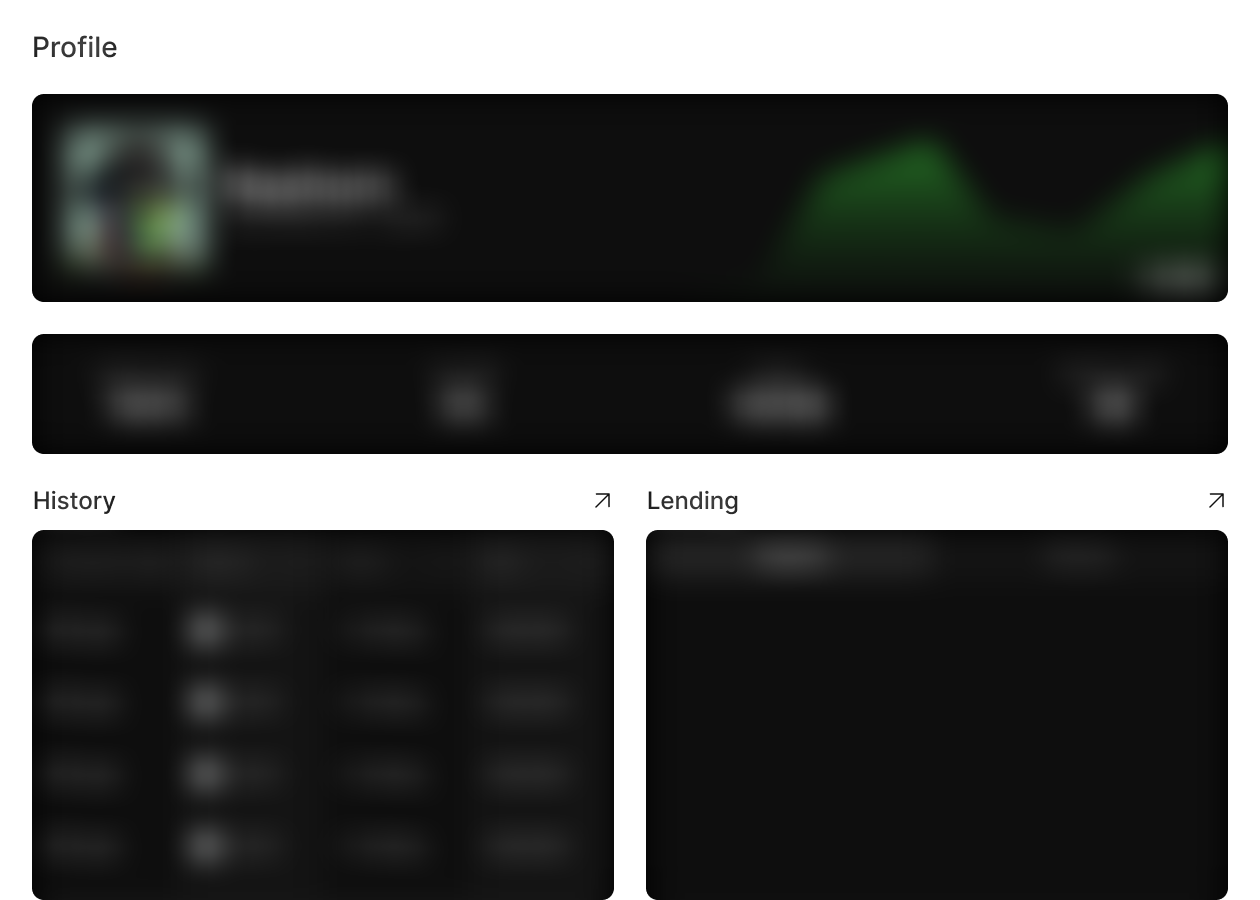
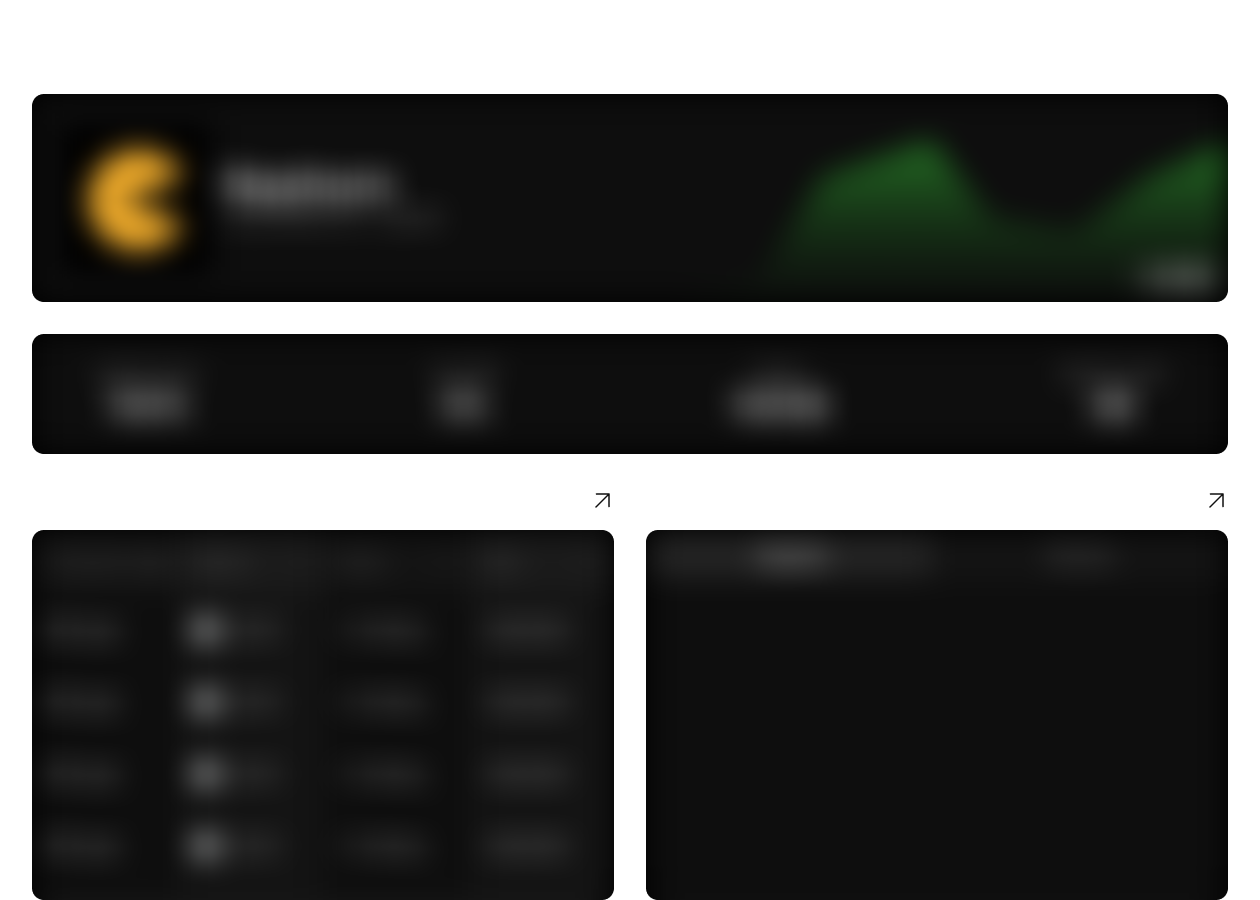
Add Dashboard loading component and page, remove Profile page, update Sidebar component

diff --git a/src/components/Sidebar.tsx b/src/components/Sidebar.tsx
@@ -49,7 +49,7 @@ const Sidebar: React.FC = () => {
               : "text-gray-400 transition-colors duration-300 hover:text-white"
           } group`}
         >
-          {label === "Dashboard" && (
+          {label === "Markets" && (
             <svg
               className={isActive ? "text-[#FFF200]" : isDisabled ? "text-gray-600" : "text-gray-400"}
               xmlns="http://www.w3.org/2000/svg"
@@ -190,8 +190,9 @@ const Sidebar: React.FC = () => {
               <path d="M3 18H2" stroke="currentColor" strokeWidth="1.5" strokeLinecap="round" strokeLinejoin="round" />
             </svg>
           )}
-          {label === "Profile" && (
+          {label === "Dashboard" && (
             <svg
+              className={`${isActive ? "text-[#FFF200]" : "text-gray-400"} lucide lucide-square-user-round`}
               xmlns="http://www.w3.org/2000/svg"
               width="24"
               height="24"
@@ -201,7 +202,6 @@ const Sidebar: React.FC = () => {
               stroke-width="2"
               stroke-linecap="round"
               stroke-linejoin="round"
-              className="lucide lucide-square-user-round"
             >
               <path d="M18 21a6 6 0 0 0-12 0" />
               <circle cx="12" cy="11" r="4" />
@@ -253,12 +253,12 @@ const Sidebar: React.FC = () => {
               <Image className="ml-4 py-8" src={logo} alt="logo" width={225} />
             </a>
             <ul className="text-center text-white text-sm py-8 space-y-4">
-              {menuItem("/", "Dashboard")}
+              {menuItem("/", "Markets")}
               {menuItem("/lending", "Lending")}
               {menuItem("/quests", "Quests")}
               {menuItem("/swap", "Swap")}
               {/* @todo: add profile page later, use if needed as a reference */}
-              {/* {menuItem("/profile", "Profile")} */}
+              {menuItem("/dashboard", "Dashboard")}
             </ul>
           </div>
           <div className="hidden sm:flex flex-col">

diff --git a/src/containers/Quest/components/Banner.tsx b/src/containers/Quest/components/Banner.tsx
@@ -30,7 +30,7 @@ const Banner: React.FC<BannerProps> = ({ username, bxpAmount, userImage, userBac
         >
           <div className="w-full h-full absolute top-0 right-0 rounded-2xl bg-black bg-opacity-75 " />
           <button className="flex w-8 h-8 p-1 justify-center items-center rounded bg-[#646009] z-50 hover:bg-opacity-90 active:scale-95">
-            <Image src={SettingsIcon} alt="Settings Icon" className=" prevent-select" draggable="false" />
+            <Image src={SettingsIcon} alt="Settings Icon" className=" select-none" draggable="false" />
           </button>
         </div>
 
@@ -75,7 +75,7 @@ const Banner: React.FC<BannerProps> = ({ username, bxpAmount, userImage, userBac
               target="_blank"
               className="flex w-10 h-10 justify-center items-center bg-[#FFF200] rounded-md"
             >
-              <Image src={XIcon} alt="XIcon" className="w-5 h-5 prevent-select" draggable="false" />
+              <Image src={XIcon} alt="XIcon" className="w-5 h-5 select-none" draggable="false" />
             </a>
 
             <a
@@ -83,11 +83,11 @@ const Banner: React.FC<BannerProps> = ({ username, bxpAmount, userImage, userBac
               target="_blank"
               className="flex w-10 h-10 justify-center items-center bg-[#FFF200] rounded-md"
             >
-              <Image src={DiscordIcon} alt="XIcon" className="w-5 h-5 prevent-select" draggable="false" />
+              <Image src={DiscordIcon} alt="XIcon" className="w-5 h-5 select-none" draggable="false" />
             </a>
 
             <div className="flex w-10 h-10 justify-center items-center bg-[#FFF200] rounded-md">
-              <Image src={WalletIcon} alt="XIcon" className="w-5 h-5 prevent-select" draggable="false" />
+              <Image src={WalletIcon} alt="XIcon" className="w-5 h-5 select-none" draggable="false" />
             </div>
           </div>
           {/* End of social media part */}

diff --git a/src/containers/Dashboard/index.tsx b/src/containers/Dashboard/index.tsx
@@ -1,12 +1,12 @@
 import Image from "next/image";
 import Pyth from "../../../public/images/profile-blurred.png";
 
-const ProfileContainer = () => {
+const DashboardContainer = () => {
   return (
-    <main className="flex flex-col gap-8 px-4 py-8 sm:px-10 sm:ml-60 sm:align-center sm:items-center sm:justify-center text-white">
+    <main className="flex flex-col gap-8 px-4 py-8 -mt-32 sm:px-10 sm:ml-60 sm:align-center sm:items-center sm:justify-center text-white">
       <Image src={Pyth} alt="Pyth Powered" className="w-full h-full select-none bg-contain blur-sm"  draggable="false" />
     </main>
   );
 };
 
-export default ProfileContainer;
+export default DashboardContainer;

diff --git a/src/app/dashboard/loading.tsx b/src/app/dashboard/loading.tsx
@@ -1,3 +1,3 @@
-export default async function ProfileLoading() {
+export default async function DashboardLoading() {
   return <main className="px-4 py-4 sm:px-10 sm:ml-60 sm:align-center space-y-4 text-white text-5xl">LOADING...</main>;
 }

diff --git a/src/app/dashboard/page.tsx b/src/app/dashboard/page.tsx
@@ -1,0 +1,5 @@
+import DashboardContainer from "@/containers/Dashboard";
+
+export default async function Dashboard() {
+  return <DashboardContainer />;
+}
